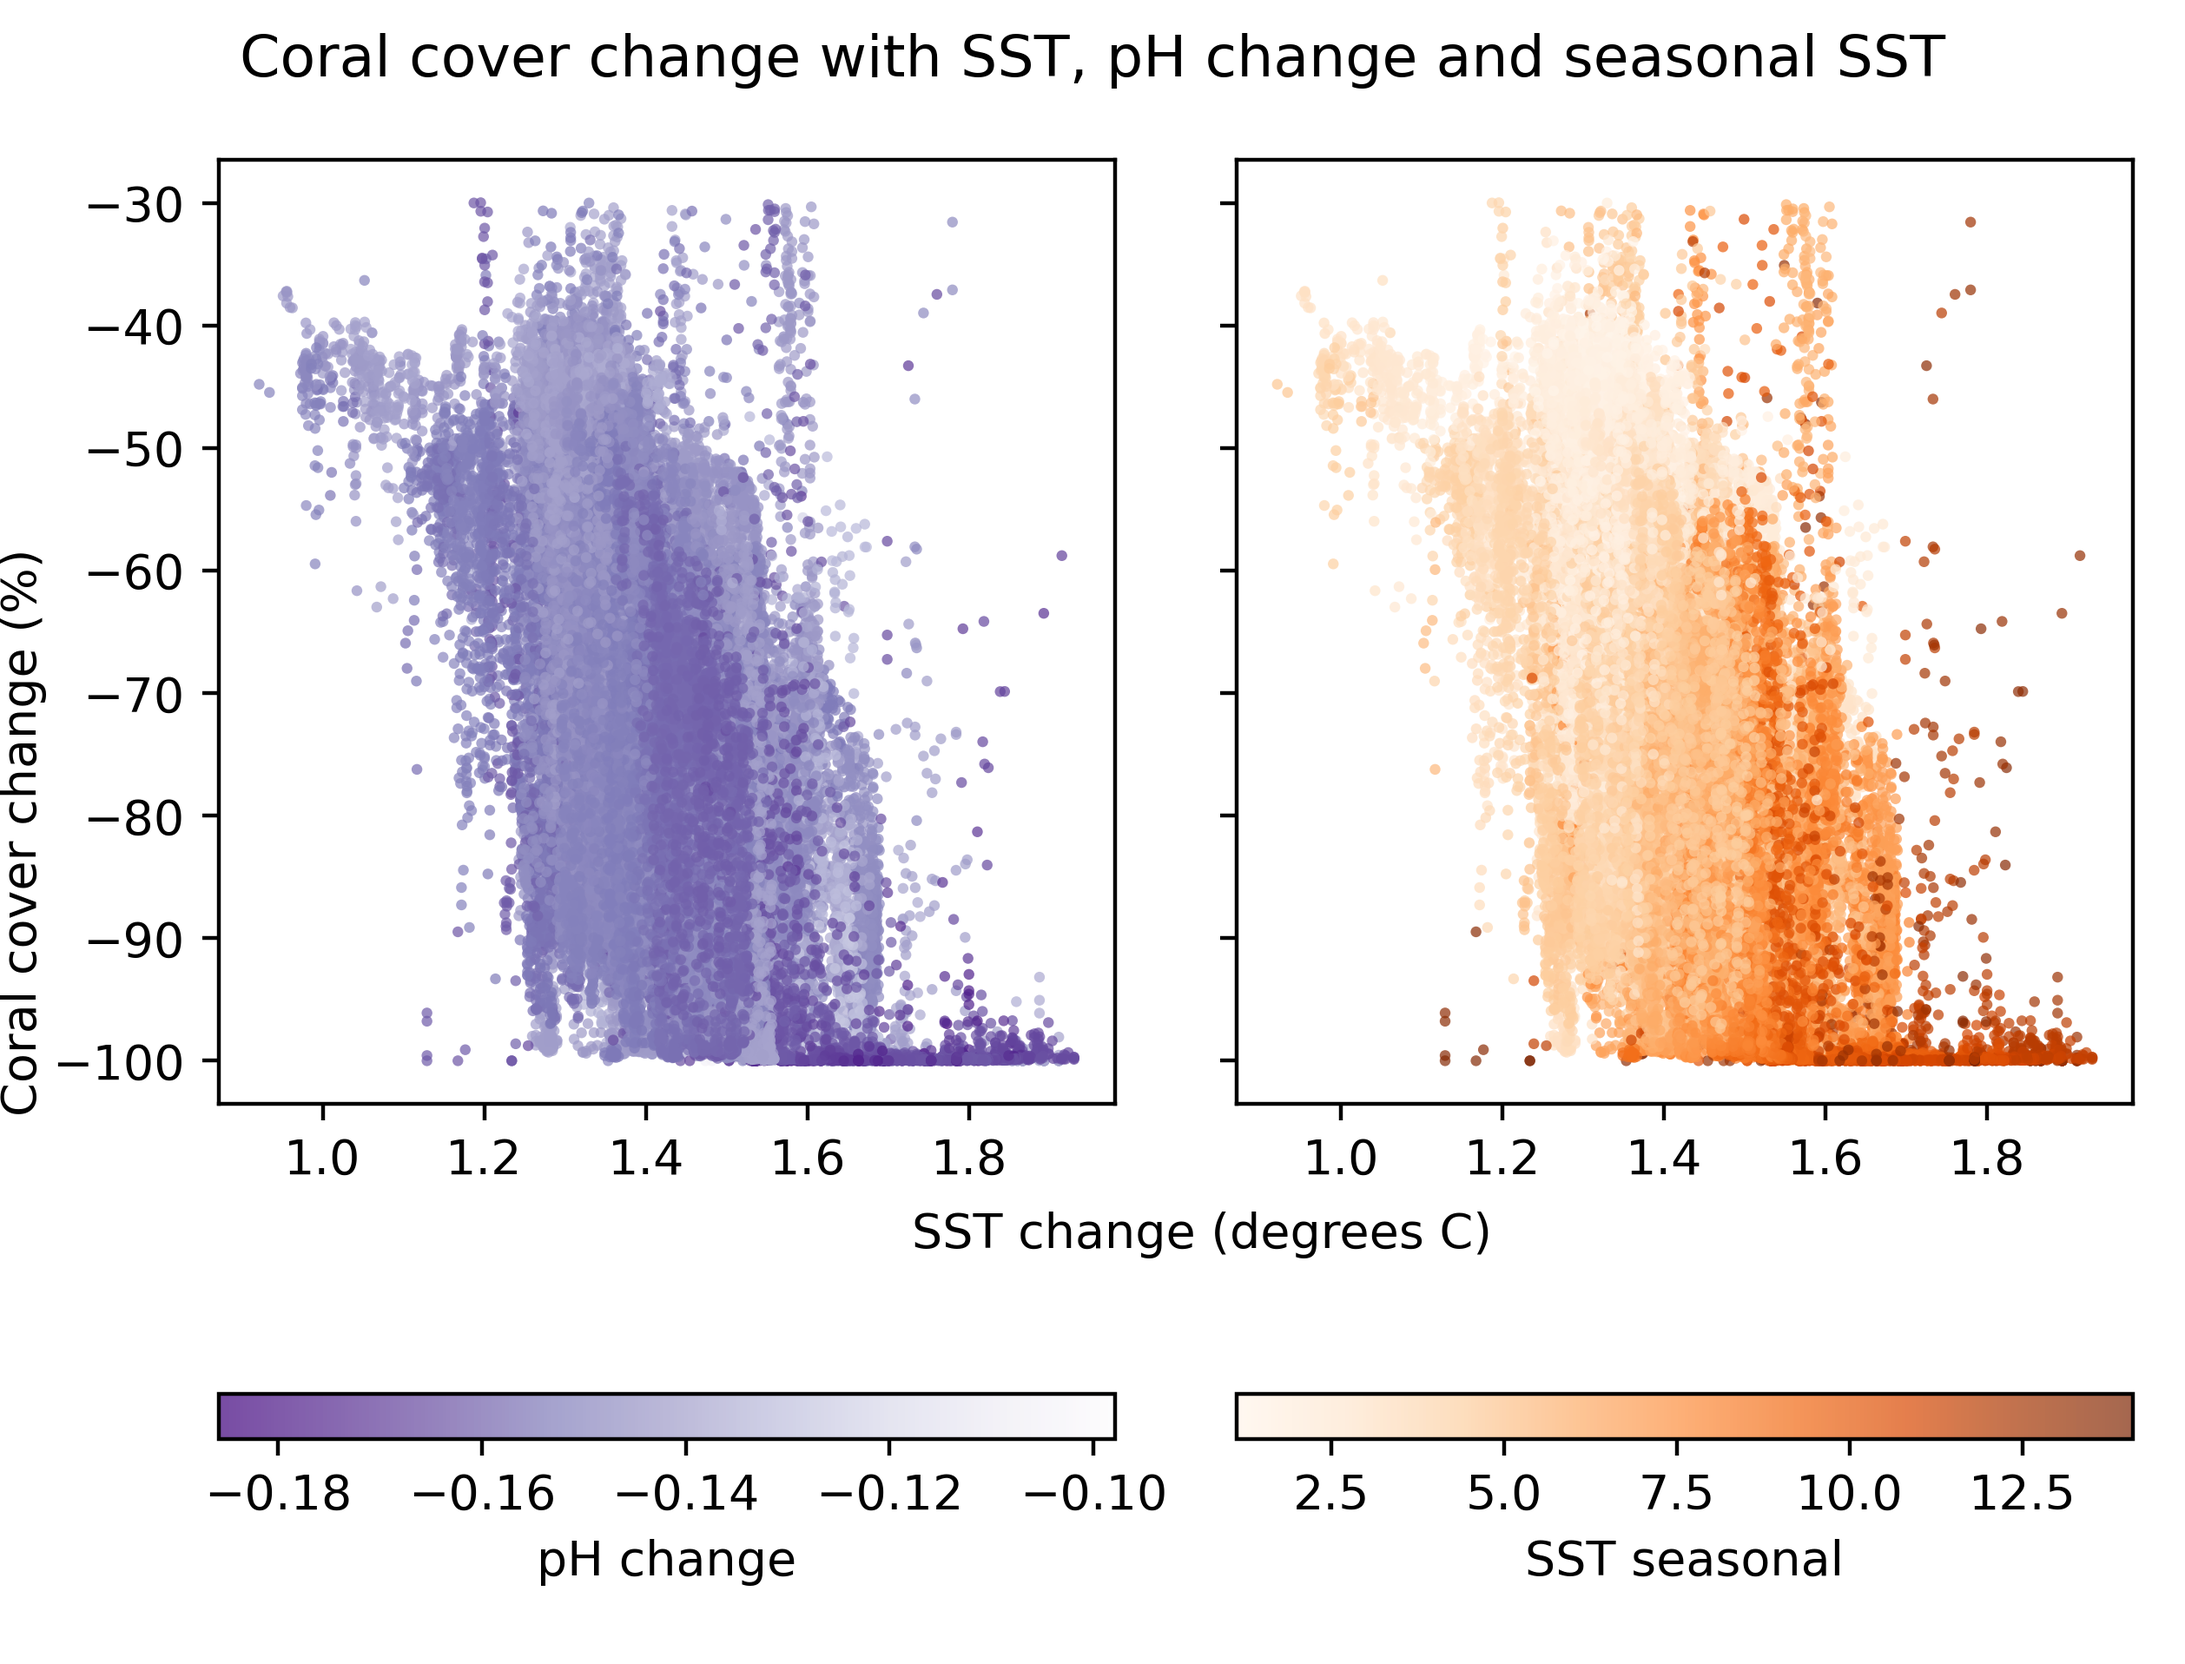
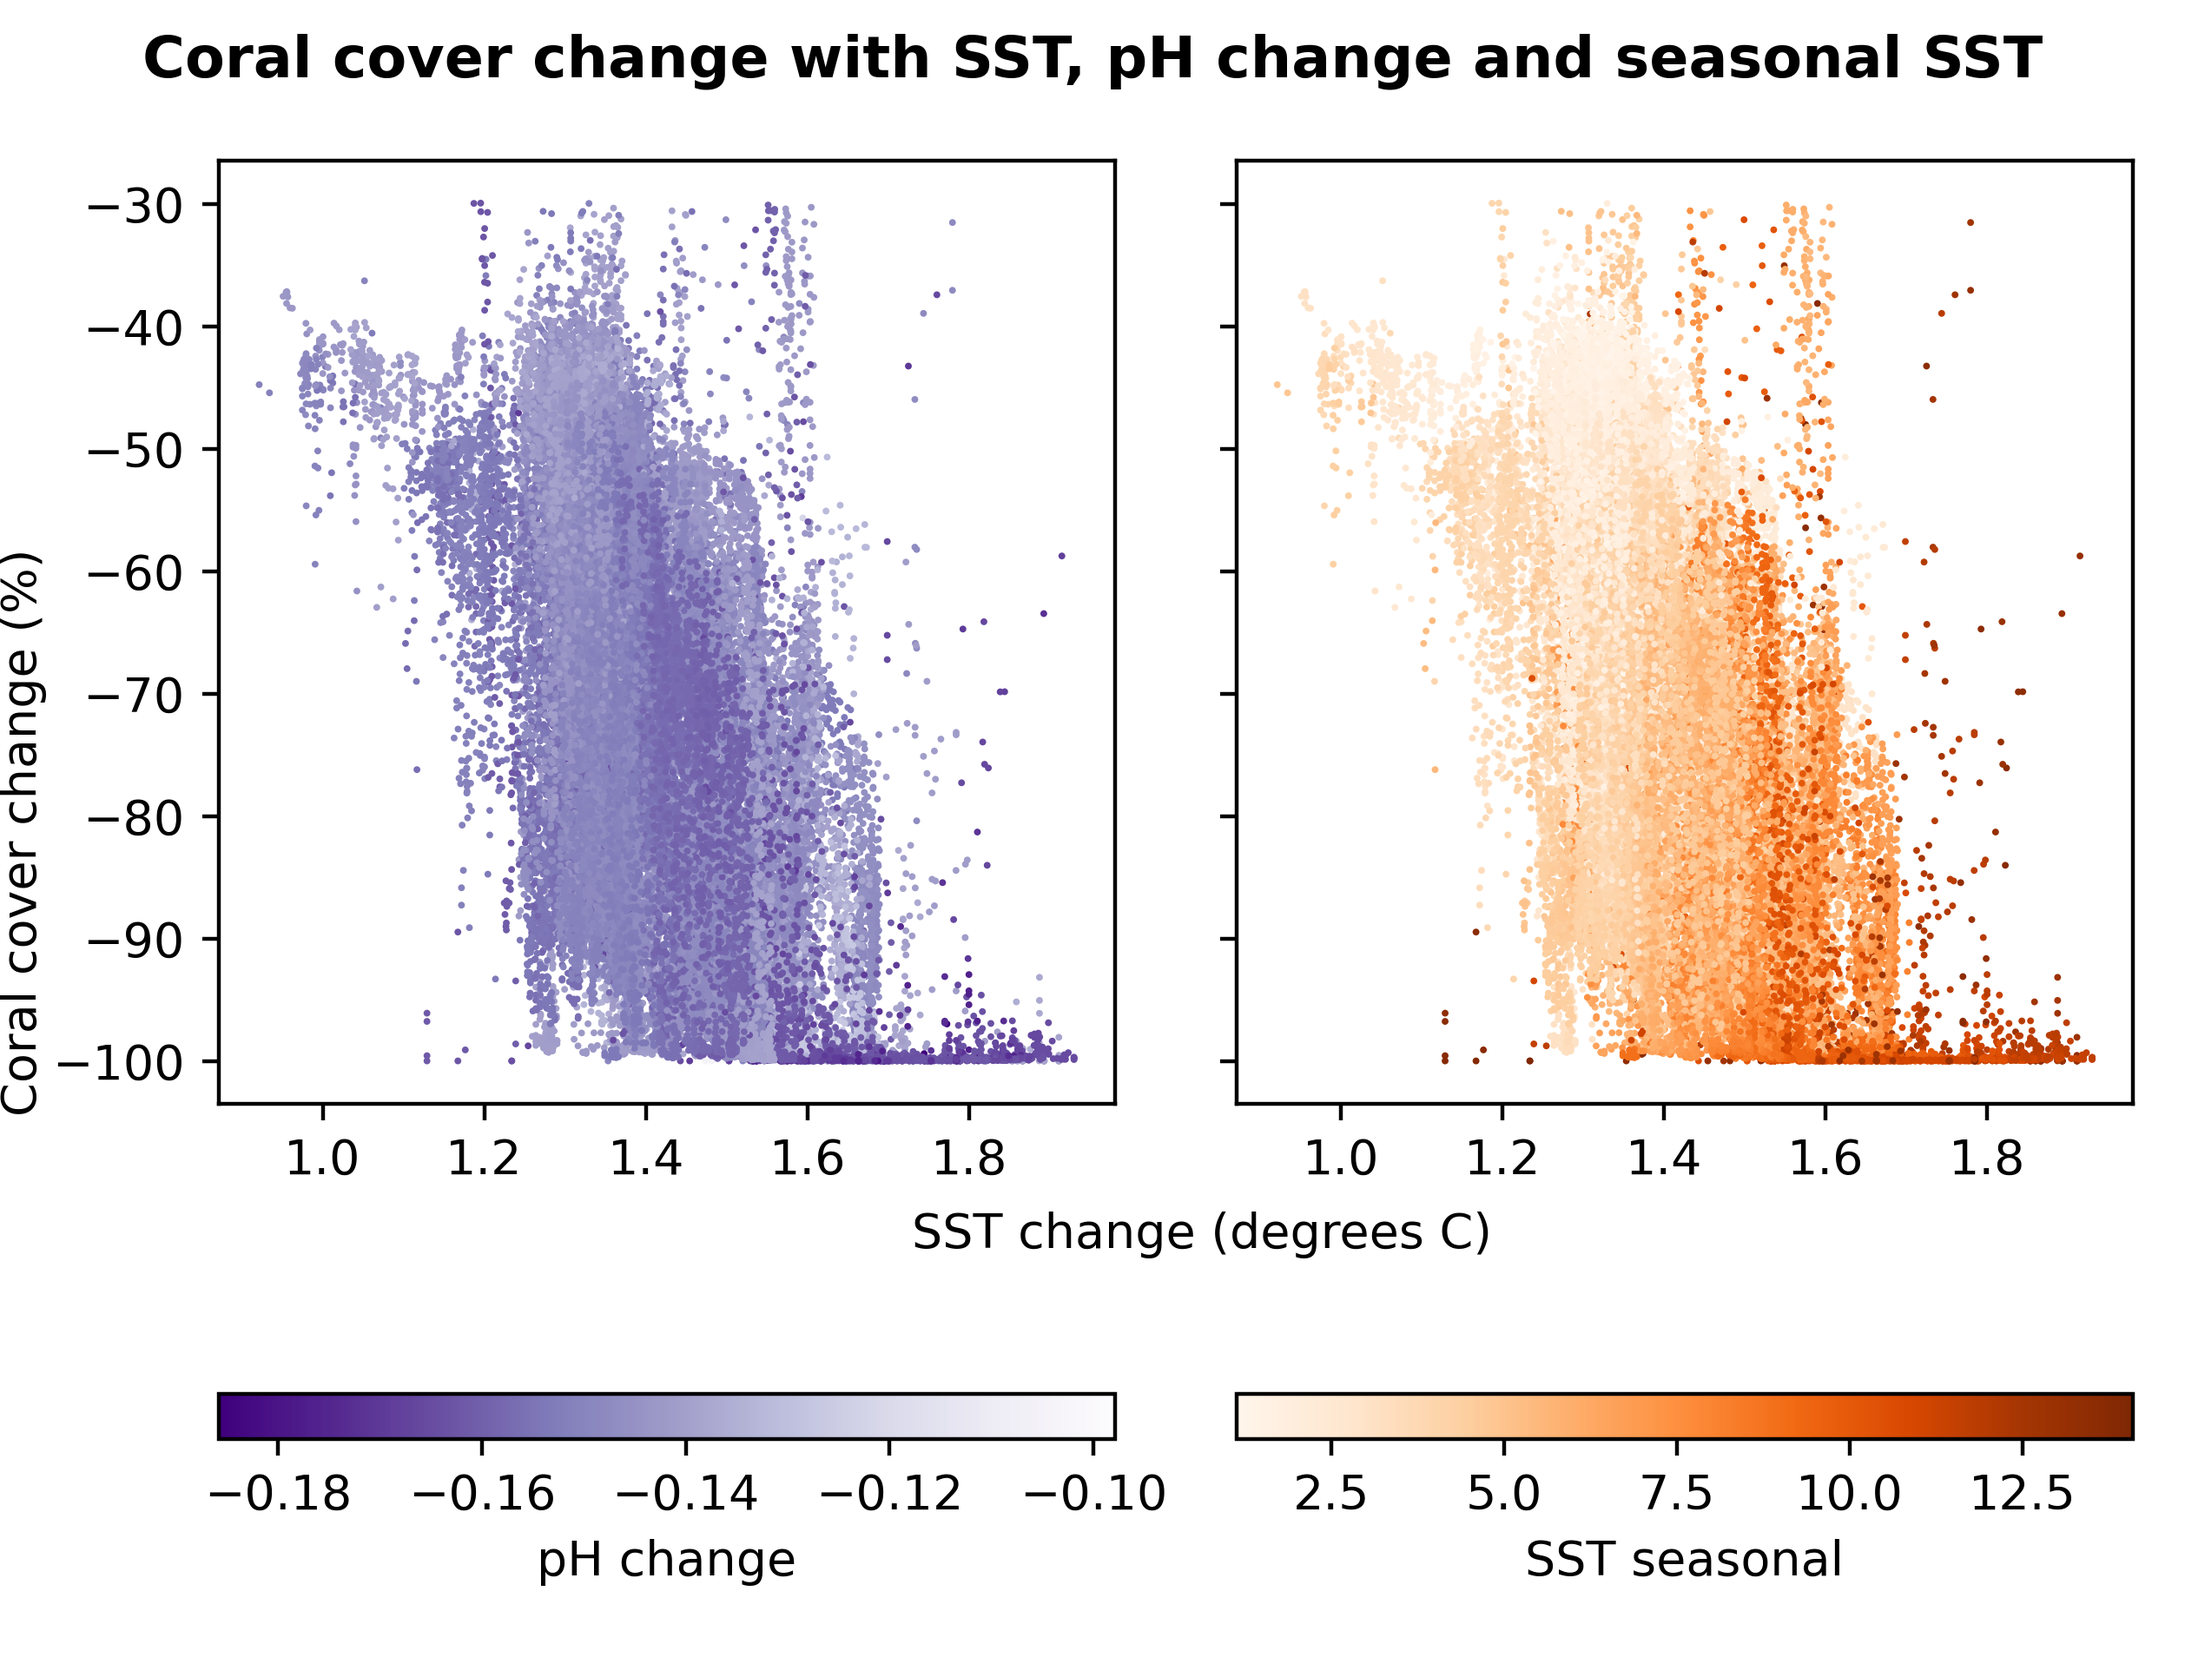
adjust alpha and size

diff --git a/dataprocess.py b/dataprocess.py
@@ -154,10 +154,9 @@ scatter1 = ax1.scatter(
     filtered_data['SST_change'], 
     filtered_data['coral_cover_change'], 
     c=filtered_data['pH_change'], 
-    s=5, 
+    s=2, 
     cmap='Purples_r', 
-    edgecolor='none', 
-    alpha=0.7
+    edgecolor='none'
 )
 # 在圖的下方加上顏色條，表示 pH_change 的數值範圍
 cbar1 = plt.colorbar(scatter1, ax=ax1, orientation='horizontal', pad=0.2)
@@ -168,10 +167,9 @@ scatter2 = ax2.scatter(
     filtered_data['SST_change'], 
     filtered_data['coral_cover_change'], 
     c=filtered_data['SST_seasonal'], 
-    s=5, 
+    s=2, 
     cmap='Oranges', 
-    edgecolor='none', 
-    alpha=0.7
+    edgecolor='none'
 )
 # 在圖的下方加上顏色條，表示 SST_seasonal 的數值範圍
 cbar2 = plt.colorbar(scatter2, ax=ax2, orientation='horizontal', pad=0.2)
@@ -182,7 +180,7 @@ fig.text(0.55, 0.25,'SST change (degrees C)', ha='center')  # 設置 X 軸標籤
 fig.text(0, 0.5,'Coral cover change (%)', va='center', rotation='vertical')  # 設置 Y 軸標籤於圖左側中間
 
 # 添加圖表的總標題
-fig.suptitle("Coral cover change with SST, pH change and seasonal SST", fontsize=12)
+fig.suptitle("Coral cover change with SST, pH change and seasonal SST", fontsize=12,fontweight='bold')
 
 
 # 保存圖像到 output 資料夾，設定 dpi=400
